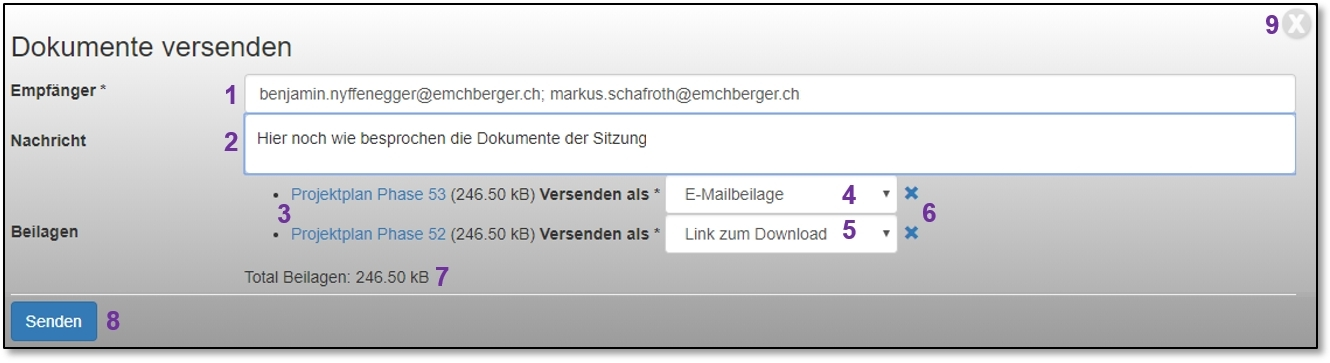
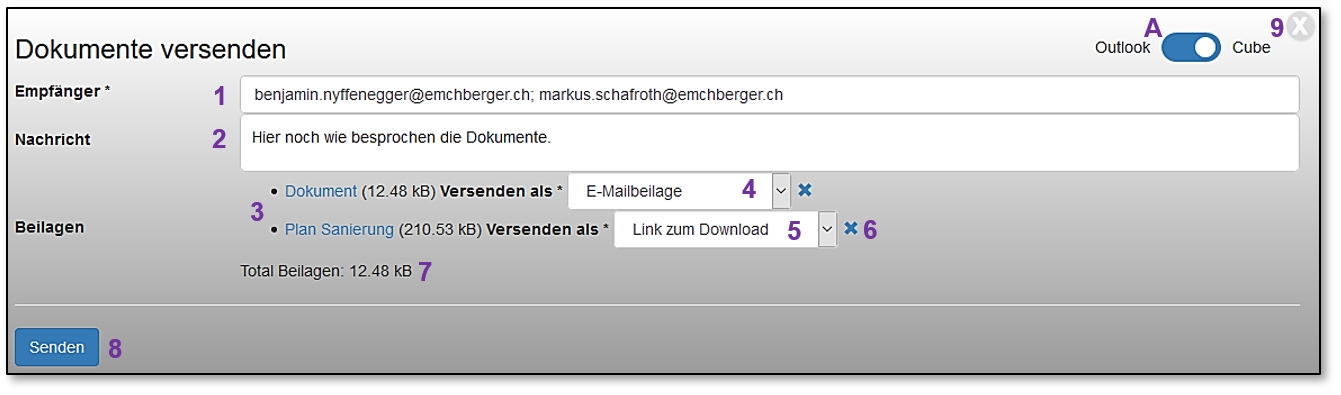
[german]
Dokumentenablage: neue Funktion: Dokumente versenden durch Outlooknachricht.

diff --git a/german/chapters/11_Dokumentenablage/11_Dokumentenablage.tex b/german/chapters/11_Dokumentenablage/11_Dokumentenablage.tex
@@ -914,9 +914,11 @@ Zu den oben beschrieben Optionen können zusätzlich mit Klick auf die Lupe \inc
 \label{bkm:Ref201701127}
 % Neues Kapitel
 
-Es ist möglich, Dokumente direkt aus der Dokumentenablage per Mail an beliebige Empfänger zu versenden. Der Versand von Dokumenten wird zu Gunsten der Nachvollziehbarkeit und Transparenz in der Änderungshistorie aufgezeichnet.
+Sie können Dokumente direkt aus der Dokumentenablage per Mail an beliebige Empfänger versenden. Der Versand von Dokumenten wird zu Gunsten der Nachvollziehbarkeit und Transparenz in der Änderungshistorie aufgezeichnet.\\
 
-Klicken Sie auf das Versandsymbol \includegraphics[height=12pt]{/Icons/dk_senden.jpg}, 11-dum sämtliche Dokumente im Dokumentenkorb an eine oder mehrere Emailadressen zu versenden. Sie können vor dem Absenden immer noch Dokumente löschen, welche Sie nicht versenden wollen.
+Nachdem Sie die gewünschten Dokumente in der Dokumentenübersicht ausgewählt haben (mittels Checkboxen \includegraphics[height=12pt]{/Icons/checkbox_markiert.jpg}), klicken Sie auf das Versandsymbol \includegraphics[height=12pt]{/Icons/dk_senden.jpg}. Sämtliche Dokumente im Dokumentenkorb werden an eine oder mehrere Emailadressen zu versenden. Sie können vor dem Absenden immer noch Dokumente löschen, welche Sie nicht versenden wollen.\\ 
+
+\textbf{Hinweis:} Alternativ zum Versand durch CUBE ProjectAssistant können Sie eine Outlookvorlage öffnen und das Mail vor dem Senden bearbeiten. Stellen Sie den Schalter entsprechend auf 'Outlook' \col{(A)}.
 
 \begin{figure}[H]
 \center{\includegraphics[width=1\linewidth]{../chapters/11_Dokumentenablage/pictures/11-dkorb_Dok_versenden.jpg}}
@@ -924,13 +926,14 @@ Klicken Sie auf das Versandsymbol \includegraphics[height=12pt]{/Icons/dk_senden
 % \label{fig:speciation}
 \end{figure}
 
-Empfänger eintragen \col{(1)}: Geben Sie bei 'Empfänger' eine oder mehrere Emailadressen ein. Trennen Sie die Emailadresse mittels ';' oder einem Leerschlag.
-Unter 'Nachricht' \col{(2)} können Sie für den oder die Empfänger die nötigen Informationen eingeben. Die ausgewählten Dokumente werden aufgelistet und mit Klick auf den blauen Titel, lassen sich die Dokumente herunterladen \col{(3)}. Im Dropdownmenü hinter den Dokumenten können Sie auswählen, ob ein Dokument als Email-Attachement \col{(4)} oder als Link im Email \col{(5)} versendet werden soll. Mit dem Kreuzchen \includegraphics[height=12pt]{/Icons/blKreuzchen.jpg} \col{(6)} lassen sich Dokumente auch wieder löschen. Die Grösse sämtlicher Dokumenten ist unter \col{(7)} ersichtlich. Beachten Sie, dass grosse Dateien in der Regel nicht per Email-Attachement versendet werden können. In solchen Fällen verwenden Sie den Versand per Link \col{(5)}. Haben Sie alle nötigen Angaben gemacht, klicken Sie auf 'Senden' \col{(8)}, um den Sendeauftrag abzuschliessen.\\
+Empfänger eintragen \col{(1)}: Geben Sie bei 'Empfänger' eine oder mehrere Emailadressen ein. Trennen Sie die Emailadresse mittels ';' oder einem Leerschlag. \textbf{Hinweis:} Versenden Sie Dokumenten durch CUBE ProjectAssistant ist es Pflicht, mindestens einen Empfänger einzutragen (Pflichtfeld). Wurde 'Outlook' als Versandart gewählt, können später weitere E-Mailadressen an 'An', 'Cc' oder 'Bcc' hinzugefügt werden.\\
+Unter 'Nachricht' \col{(2)} können Sie für den oder die Empfänger die nötigen Informationen eingeben. Werden die Dokumente durch Outlook versendet, können Sie die Nachricht noch bearbeiten.\\ 
+Die ausgewählten Dokumente werden aufgelistet und mit Klick auf den blauen Titel lassen sich die Dokumente herunterladen \col{(3)}. Im Dropdownmenü hinter den Dokumenten können Sie auswählen, ob ein Dokument als E-Mail-Attachement \col{(4)} oder als Link im Email \col{(5)} versendet werden soll. Mit dem Kreuzchen \includegraphics[height=12pt]{/Icons/blKreuzchen.jpg} \col{(6)} lassen sich Dokumente auch wieder löschen. Die Grösse sämtlicher Dokumente, welche als 'E-Mailbeilagen' versendet werden, ist unter \col{(7)} ersichtlich. Beachten Sie, dass grosse Dateien in der Regel nicht per Email-Attachement versendet werden können. In solchen Fällen verwenden Sie den Versand per Link \col{(5)}. Haben Sie alle nötigen Angaben gemacht, klicken Sie auf 'Senden' \col{(8)}, um den Sendeauftrag abzuschliessen oder die Nachricht im Outlook zu öffnen. Wurde unter \col{(A)} 'Outlook' ausgewählt, wird nun eine Outlook-Nachricht generiert und geöffnet.\\
 Wenn Sie den Versand abbrechen wollen, klicken Sie auf den \includegraphics[height=12pt]{/Icons/X_Button.jpg}-Button \col{(9)}.
 
 \vspace{\baselineskip}
 
-Nun erscheint eine Bestätigungsmeldung, an welche Empfänger das Email mit den Dokumenten versendet worden ist:
+Beim Versand durch CUBE ProjectAssistant erscheint nun eine Bestätigungsmeldung, an welche Empfänger das Email mit den Dokumenten oder/und den Links versendet worden ist:
 
 \begin{figure}[H]
 \center{\includegraphics[width=.35\linewidth]{../chapters/11_Dokumentenablage/pictures/11-dkorb_Sendebestaetigung}}
@@ -939,6 +942,32 @@ Nun erscheint eine Bestätigungsmeldung, an welche Empfänger das Email mit den 
 \end{figure}
 
 Per Email wird Ihnen nochmals mitgeteilt, welche Dokumente an welche Empfänger versendet wurden. Falls Emails einen Empfänger nicht erreicht haben, wird dies ebenfalls aufgeführt.
+
+\vspace{\baselineskip}
+
+Werden die Dokumente und Links per Outlook versendet, wird eine E-Mail in folgendem Format geöffnet:
+ 
+\begin{wrapfigure}[13]{l}{10cm}   % [x] Wie manche Zeile soll sich um die Grafik "brechen"
+  \vspace{-30pt}      % Grundwert war 20; mit 30 schön oben beim Text ausgerichtet
+  \begin{center}
+    \includegraphics[width=1\linewidth]{../chapters/11_Dokumentenablage/pictures/11-dkorb_Dok_Outlook.jpg}
+  \end{center}
+  \vspace{-20pt}
+  \caption{Versand durch Outlook}
+  \vspace{-10pt}
+\end{wrapfigure}
+
+Die Angaben des Versandformulars werden im Outlook übernommen. Wie oben beschrieben können die Empfänger, sowie der Betreff und die Nachricht bearbeitet werden. Dokumente 'Versenden als E-Mailbeilage' werden in der Outlook-Nachricht als Attachement hinzugefügt, Dokumente 'Versenden als Link zum Download' werden als solchen aufgelistet. 
+
+\vspace{1.5cm}
+
+\textbf{Hinweis:} Ein Download-Link hat eine Gültigkeitsdauer von \textbf{einem Monat}.
+
+\vspace{\baselineskip}
+
+\textbf{Hinweis:} Durch Outlook versendete Dokumente werden in der Historie nicht aufgeführt.
+
+\vspace{\baselineskip}
 
 \subsubsection{Dokumente als Zip-Archiv herunterladen}
 

diff --git a/german/CUBEPA_Handbuch.tex b/german/CUBEPA_Handbuch.tex
@@ -75,7 +75,7 @@
 \HRule \\[1.5cm]
 
 \textsf{\Large Benutzerhandbuch}\\[0.5cm] % Major heading such as course name
-\textsf{\large Version 2.12 / 06.05.2019}\\[0.5cm] % Minor heading such as course title
+\textsf{\large Version 2.12 / 07.05.2019}\\[0.5cm] % Minor heading such as course title
 
 \pagebreak
 \vspace*{15cm}
@@ -90,13 +90,13 @@
 \begin{tabular}{lp{12cm}}
 Auftragsnummer & BE.N.\\
 Auftraggeber & .\\
-Datum & 06.05.2019\\
+Datum & 07.05.2019\\
 Version & 2.12\\
 Autoren & Dieter Schopfer, Benjamin Nyffenegger, Rayane Zahreddine, Adrian Johner, Markus Schafroth, Simon Heimberg\\
 Freigabe & Markus Schafroth\\
 Verteilen & .\\
 Datei & .\\
-Seitenzahl & 274 (inkl. QuickRef / Kurzanleitungen)\\
+Seitenzahl & 275 (inkl. QuickRef / Kurzanleitungen)\\
 Copyright & \copyright{ Emch+Berger AG Bern}\\
 \end{tabular}
 

diff --git a/german/chapters/16_ReleaseNotes/16_ReleaseNotes.tex b/german/chapters/16_ReleaseNotes/16_ReleaseNotes.tex
@@ -47,6 +47,7 @@ Bei Fragen bezüglich den Release Notes wenden Sie sich per Email an den CUBE PA
 
 \textbf{Dokumentenablage/Repro-Druck/Dossier:}
 \begin{compactitem}
+	\item Dokumente per CUBE ProjectAssistant oder per Outlook (Vorlage) versenden
   \item Dokumente wahlweise per (öffentlichen) Download-Link, per E-Mail-Link oder Attachement versenden
 	\item Es können mehrere, parallele Workflows (Status) für das Dokumentenmanagement verwendet werden
 \end{compactitem}
